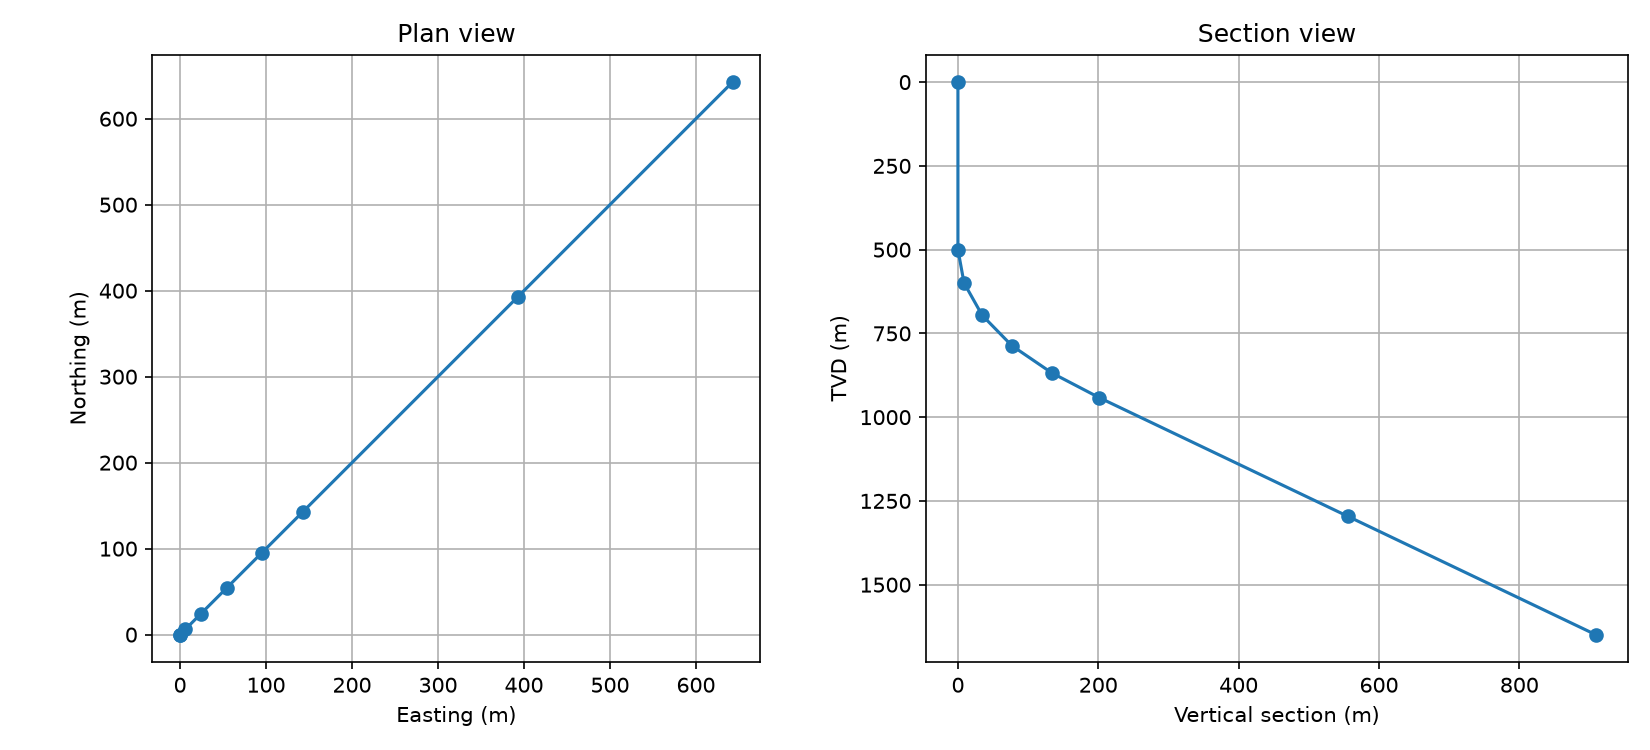
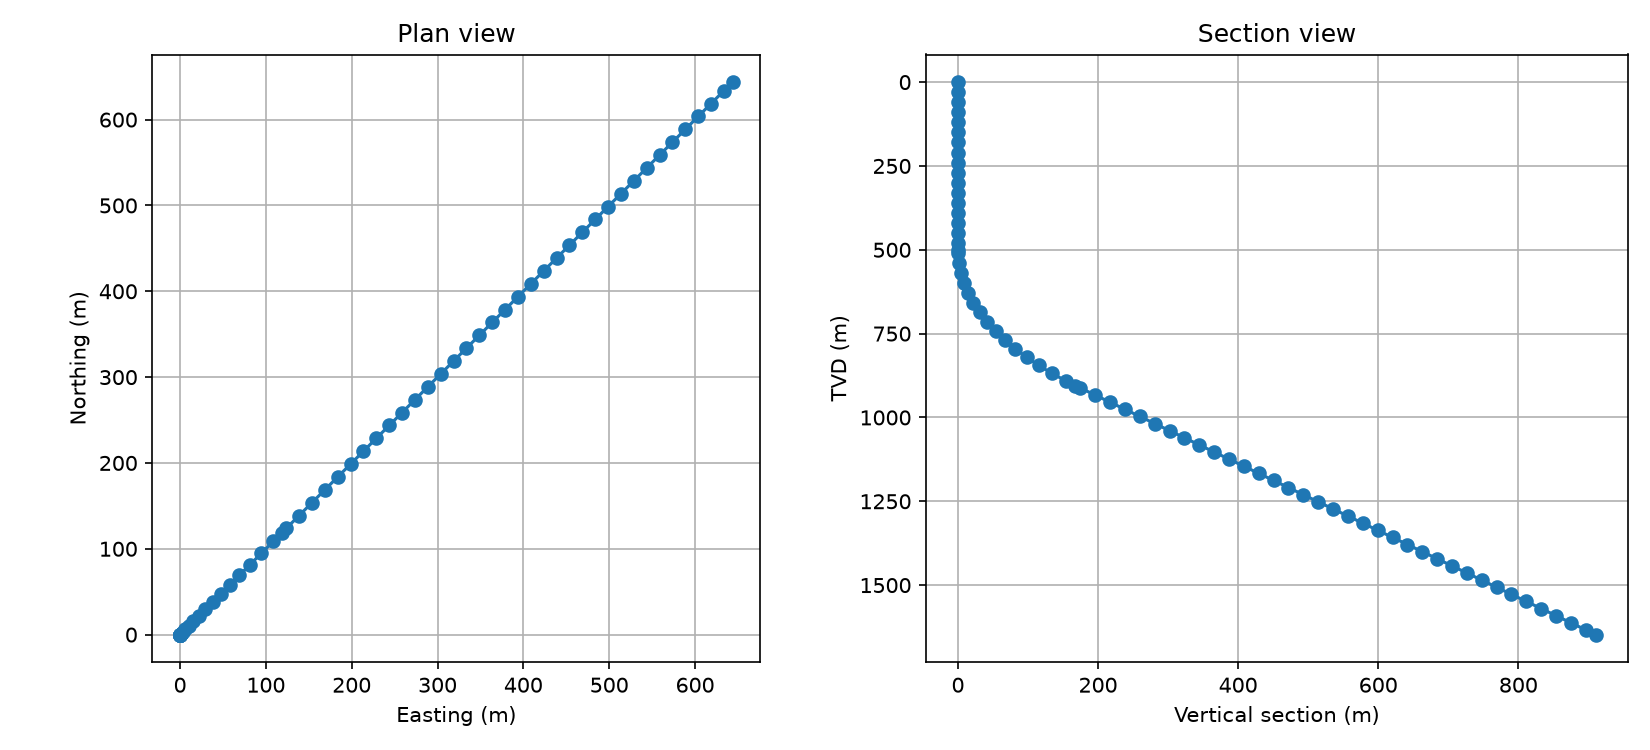
Tahap 2.1: units, hydrostatic_pressure, ecd

diff --git a/tests/test_hydraulilcs.py b/tests/test_hydraulilcs.py
@@ -1,0 +1,34 @@
+import numpy as np
+import pytest
+
+from src.hydraulics import ecd, hydrostatic_pressure
+from src.units import (
+    G, ft_to_m, kgm3_to_ppg, pa_to_psi, ppg_to_kgm3, psi_to_pa,
+)
+
+
+def test_hydrostatic_analytic():
+    # 1200 kg/m3 pada 3000 m: 1200 x 9.80665 x 3000 = 35.30 MPa
+    assert np.isclose(hydrostatic_pressure(1200.0, 3000.0), 1200.0 * G * 3000.0)
+    assert np.isclose(hydrostatic_pressure(1200.0, 3000.0), 35.304e6, rtol=1e-4)
+
+
+def test_hydrostatic_field_rule():
+    # Rumus lapangan: 0.052 x ppg x ft = psi (0.052 adalah pembulatan)
+    p = hydrostatic_pressure(ppg_to_kgm3(10.0), ft_to_m(10000.0))
+    assert np.isclose(pa_to_psi(p), 0.052 * 10.0 * 10000.0, rtol=2e-3)
+
+
+def test_ecd_field_example():
+    # MW 10 ppg, dP annulus 200 psi, TVD 10000 ft: ECD ~ 10 + 200/(0.052 x 10000) = 10.385 ppg
+    e = ecd(ppg_to_kgm3(10.0), psi_to_pa(200.0), ft_to_m(10000.0))
+    assert np.isclose(kgm3_to_ppg(e), 10.385, atol=0.01)
+
+
+def test_ecd_no_friction_equals_mw():
+    assert np.isclose(ecd(1200.0, 0.0, 2500.0), 1200.0)
+
+
+def test_ecd_rejects_zero_tvd():
+    with pytest.raises(ValueError):
+        ecd(1200.0, 1.0e5, 0.0)

diff --git a/src/hydraulics.py b/src/hydraulics.py
@@ -1,0 +1,27 @@
+"""Hidrolika lumpur bor: tekanan hidrostatik dan ECD (satuan SI).
+
+Referensi: Bourgoyne dkk. (1986), Applied Drilling Engineering.
+"""
+import numpy as np
+
+from src.units import G
+
+
+def hydrostatic_pressure(mw, tvd):
+    """Tekanan hidrostatik (Pa) = MW (kg/m3) x g x TVD (m).
+
+    Bergantung pada TVD (kedalaman vertikal), bukan MD.
+    """
+    return np.asarray(mw, dtype=float) * G * np.asarray(tvd, dtype=float)
+
+
+def ecd(mw, dp_annulus, tvd):
+    """Equivalent circulating density (kg/m3).
+
+    ECD = MW + dp_annulus / (g x TVD)
+    dp_annulus: kehilangan tekanan gesekan di annulus (Pa) dari dasar sampai permukaan.
+    """
+    tvd = np.asarray(tvd, dtype=float)
+    if np.any(tvd <= 0):
+        raise ValueError('TVD harus > 0')
+    return np.asarray(mw, dtype=float) + np.asarray(dp_annulus, dtype=float) / (G * tvd)

diff --git a/src/units.py b/src/units.py
@@ -1,0 +1,37 @@
+"""Konversi satuan lapangan (field) <-> SI. Semua rumus internal memakai SI."""
+
+G = 9.80665                  # percepatan gravitasi (m/s2)
+
+PPG_TO_KGM3 = 119.8264       # 1 lb/gal dalam kg/m3
+PSI_TO_PA = 6894.757         # 1 psi dalam Pa
+FT_TO_M = 0.3048             # 1 ft dalam m
+IN_TO_M = 0.0254             # 1 inci dalam m
+GPM_TO_M3S = 6.30902e-5      # 1 gal/menit dalam m3/s
+
+
+def ppg_to_kgm3(ppg):
+    return ppg * PPG_TO_KGM3
+
+
+def kgm3_to_ppg(kgm3):
+    return kgm3 / PPG_TO_KGM3
+
+
+def psi_to_pa(psi):
+    return psi * PSI_TO_PA
+
+
+def pa_to_psi(pa):
+    return pa / PSI_TO_PA
+
+
+def ft_to_m(ft):
+    return ft * FT_TO_M
+
+
+def in_to_m(inch):
+    return inch * IN_TO_M
+
+
+def gpm_to_m3s(gpm):
+    return gpm * GPM_TO_M3S
